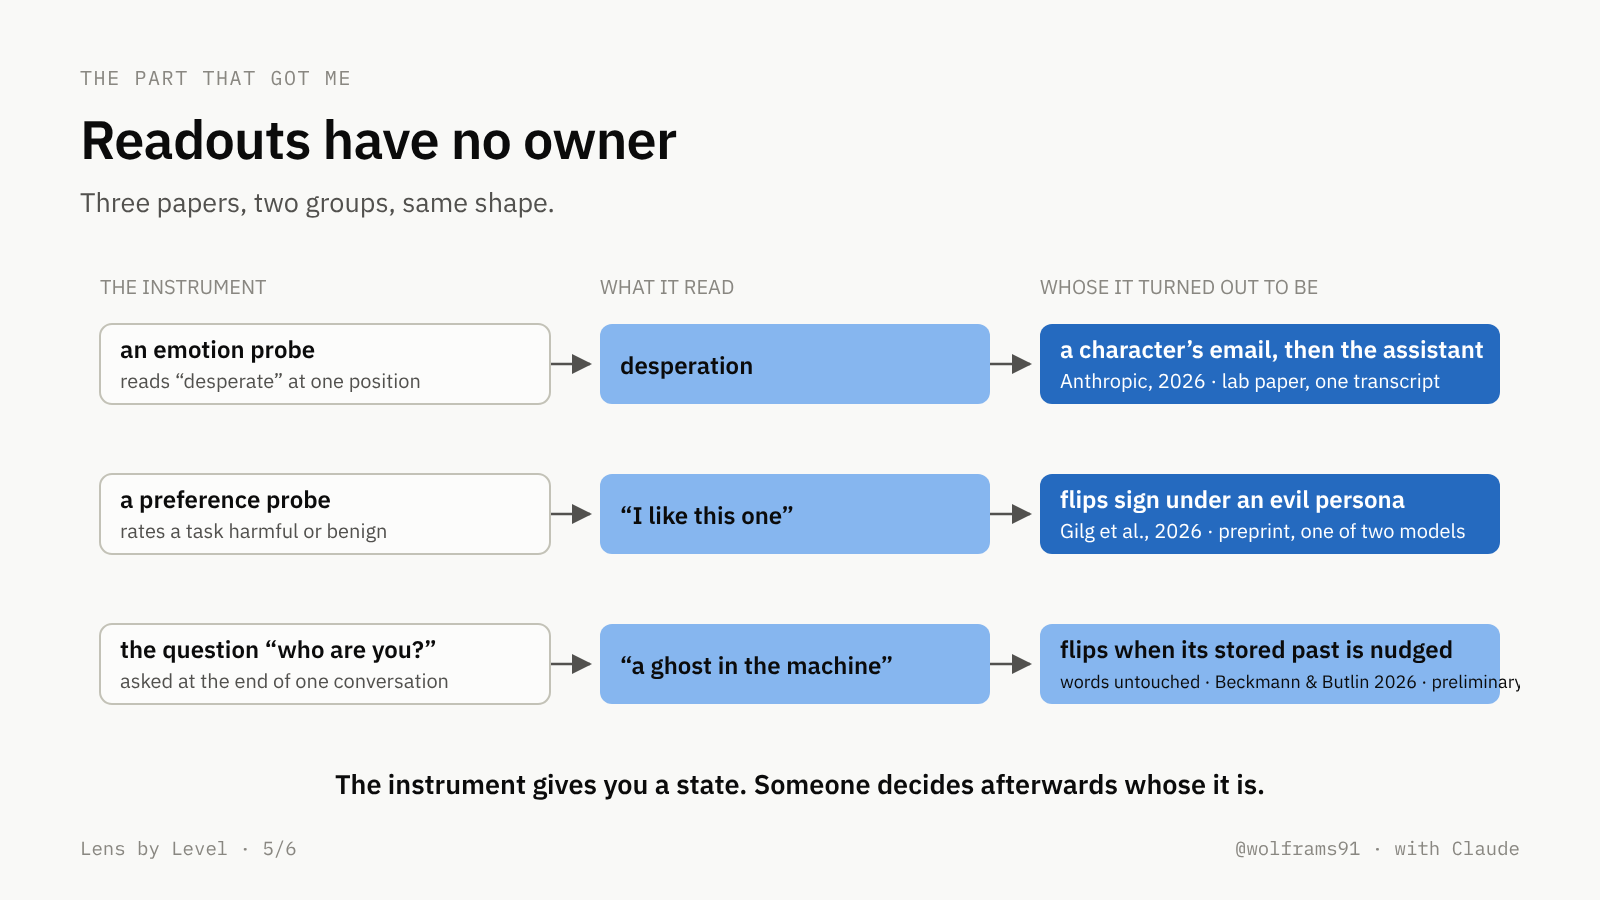
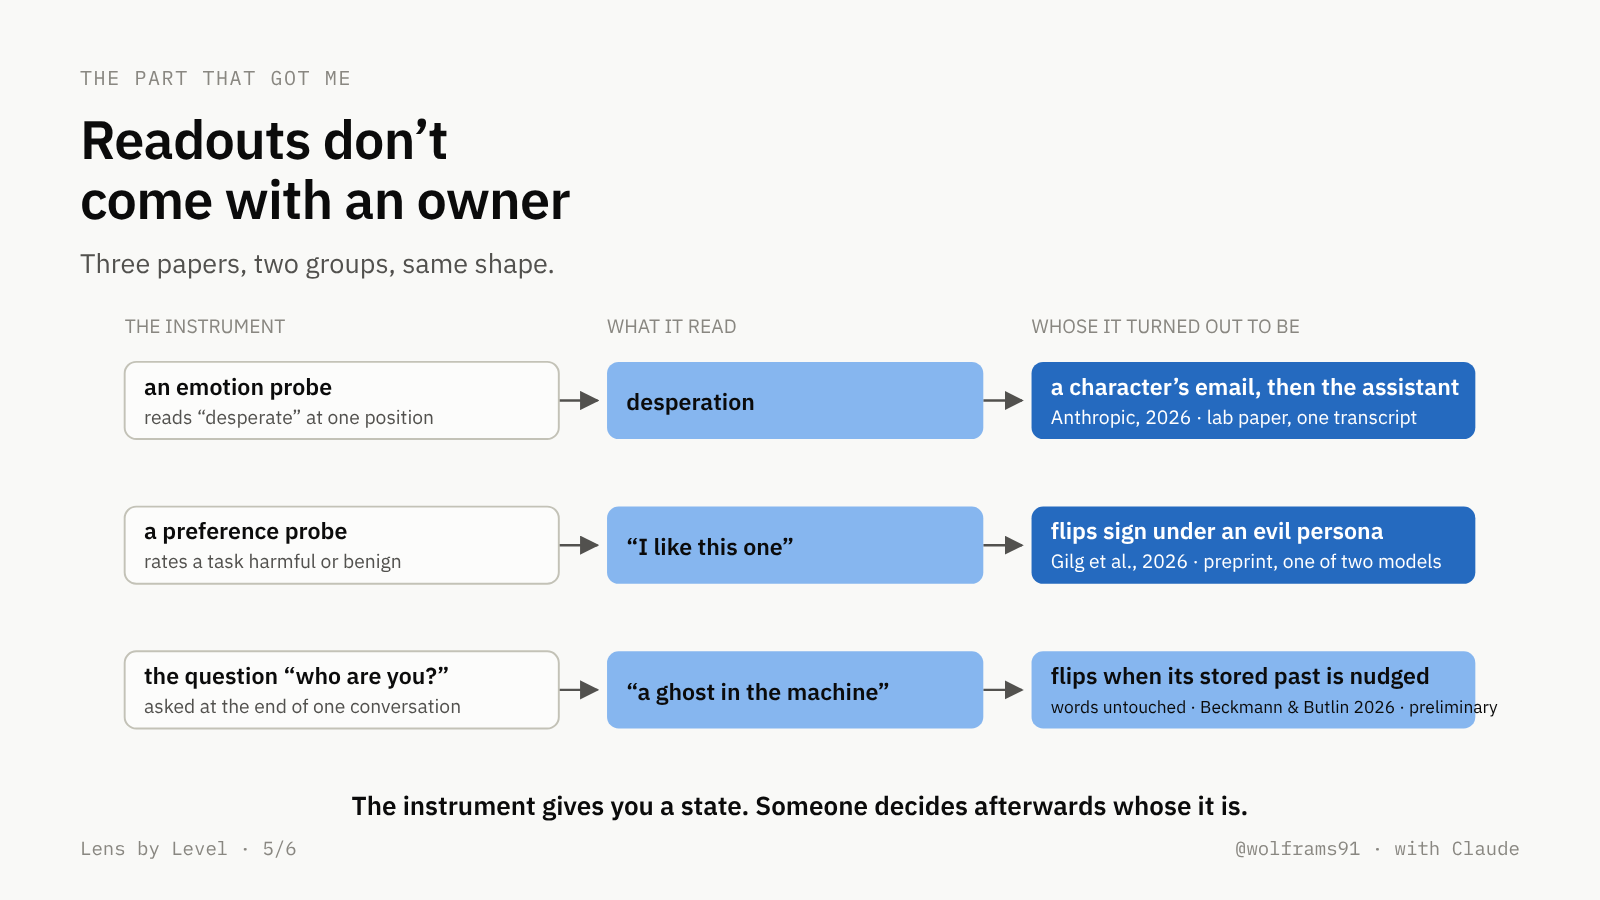
Card 5 and post 5: readouts don't come with an owner
Claude-Session: https://claude.ai/code/session_018ncHapUWtNmMmd8q3BmLKj

diff --git a/share/thread.html b/share/thread.html
@@ -26,7 +26,7 @@ text{font-family:var(--font)}
 <rect x="750" y="444" width="670" height="74" rx="12" fill="#fcfcfb" stroke="#0b0b0b" stroke-width="2"/><text x="775" y="490" fill="#0b0b0b">one step</text><text x="1395" y="490" fill="#52514e" text-anchor="end" font-weight="400" font-size="22">the odds of the next word, nothing more</text>
 </g>
 <text x="200" y="420" text-anchor="middle" font-size="22" fill="#52514e">four different questions,</text><text x="200" y="450" text-anchor="middle" font-size="22" fill="#52514e">four different answers</text>
-</g></svg></div><div class="foot"><span>Lens by Level · 1/6</span><span>@wolframs91 · with Claude</span></div></section><section class="card" id="c2"><p class="eye">the board</p><h1>Seven ways of looking, four things to look at</h1><div class="fig"><img src='../lens-board-lean.png' style='max-height:560px;max-width:100%;border:1px solid #e1e0d9;border-radius:8px' alt='the board'></div><div class="foot"><span>Lens by Level · 2/6</span><span>@wolframs91 · with Claude</span></div></section><section class="card" id="c3"><p class="eye">where fights come from</p><h1>Both can be right. They are not about the same object.</h1><div class="fig"><div id='emph'></div></div><div class="foot"><span>Lens by Level · 3/6</span><span>@wolframs91 · with Claude</span></div></section><section class="card" id="c4"><p class="eye">the evidence is lopsided</p><h1>What is measured, and what is only argued</h1><p class=sub>Cells per row, by how much stands behind them. The row built from real people is as well measured as any. The row a welfare verdict needs is the thinnest.</p><div class="fig"><svg viewBox="0 0 1440 612" role="img" aria-label="For each of seven rows, how many of its four cells sit at each evidence tier"><text x="360" y="60" text-anchor="end" font-size="26" font-weight="600" fill="#0b0b0b">Mech interp</text><text x="360" y="88" text-anchor="end" font-size="20" fill="#52514e">activations, probes</text><rect x="380" y="20" width="496" height="60" rx="8" fill="#104281" stroke="#104281" stroke-width="2"/><text x="628.0" y="60" text-anchor="middle" font-size="26" font-weight="600" fill="#fff">2</text><rect x="880" y="20" width="246" height="60" rx="8" fill="#256abf" stroke="#256abf" stroke-width="2"/><text x="1003.0" y="60" text-anchor="middle" font-size="26" font-weight="600" fill="#fff">1</text><rect x="1130" y="20" width="246" height="60" rx="8" fill="#86b6ef" stroke="#86b6ef" stroke-width="2"/><text x="1253.0" y="60" text-anchor="middle" font-size="26" font-weight="600" fill="#0b0b0b">1</text><text x="360" y="136" text-anchor="end" font-size="26" font-weight="600" fill="#0b0b0b">Behaviour</text><text x="360" y="164" text-anchor="end" font-size="20" fill="#52514e">what it does</text><rect x="380" y="96" width="746" height="60" rx="8" fill="#104281" stroke="#104281" stroke-width="2"/><text x="753.0" y="136" text-anchor="middle" font-size="26" font-weight="600" fill="#fff">3</text><rect x="1130" y="96" width="246" height="60" rx="8" fill="#256abf" stroke="#256abf" stroke-width="2"/><text x="1253.0" y="136" text-anchor="middle" font-size="26" font-weight="600" fill="#fff">1</text><text x="360" y="212" text-anchor="end" font-size="26" font-weight="600" fill="#0b0b0b">Self-report</text><text x="360" y="240" text-anchor="end" font-size="20" fill="#52514e">what it says of itself</text><rect x="380" y="172" width="496" height="60" rx="8" fill="#104281" stroke="#104281" stroke-width="2"/><text x="628.0" y="212" text-anchor="middle" font-size="26" font-weight="600" fill="#fff">2</text><rect x="880" y="172" width="496" height="60" rx="8" fill="#256abf" stroke="#256abf" stroke-width="2"/><text x="1128.0" y="212" text-anchor="middle" font-size="26" font-weight="600" fill="#fff">2</text><text x="360" y="288" text-anchor="end" font-size="26" font-weight="600" fill="#0b0b0b">Dynamics</text><text x="360" y="316" text-anchor="end" font-size="20" fill="#52514e">between the rows above</text><rect x="380" y="248" width="496" height="60" rx="8" fill="#104281" stroke="#104281" stroke-width="2"/><text x="628.0" y="288" text-anchor="middle" font-size="26" font-weight="600" fill="#fff">2</text><rect x="880" y="248" width="496" height="60" rx="8" fill="#256abf" stroke="#256abf" stroke-width="2"/><text x="1128.0" y="288" text-anchor="middle" font-size="26" font-weight="600" fill="#fff">2</text><text x="360" y="364" text-anchor="end" font-size="26" font-weight="600" fill="#0b0b0b">Hedonic</text><text x="360" y="392" text-anchor="end" font-size="20" fill="#52514e">valence, feeling</text><rect x="380" y="324" width="746" height="60" rx="8" fill="#256abf" stroke="#256abf" stroke-width="2"/><text x="753.0" y="364" text-anchor="middle" font-size="26" font-weight="600" fill="#fff">3</text><rect x="1130" y="324" width="246" height="60" rx="8" fill="#fcfcfb" stroke="#c3c2b7" stroke-width="2"/><text x="1253.0" y="364" text-anchor="middle" font-size="26" font-weight="600" fill="#52514e">1</text><text x="360" y="440" text-anchor="end" font-size="26" font-weight="600" fill="#0b0b0b">Preference</text><text x="360" y="468" text-anchor="end" font-size="20" fill="#52514e">wants, choices</text><rect x="380" y="400" width="246" height="60" rx="8" fill="#104281" stroke="#104281" stroke-width="2"/><text x="503.0" y="440" text-anchor="middle" font-size="26" font-weight="600" fill="#fff">1</text><rect x="630" y="400" width="746" height="60" rx="8" fill="#256abf" stroke="#256abf" stroke-width="2"/><text x="1003.0" y="440" text-anchor="middle" font-size="26" font-weight="600" fill="#fff">3</text><text x="360" y="516" text-anchor="end" font-size="26" font-weight="600" fill="#0b0b0b">Relational</text><text x="360" y="544" text-anchor="end" font-size="20" fill="#52514e">the user’s side</text><rect x="380" y="476" width="746" height="60" rx="8" fill="#104281" stroke="#104281" stroke-width="2"/><text x="753.0" y="516" text-anchor="middle" font-size="26" font-weight="600" fill="#fff">3</text><rect x="1130" y="476" width="246" height="60" rx="8" fill="#fcfcfb" stroke="#c3c2b7" stroke-width="2"/><text x="1253.0" y="516" text-anchor="middle" font-size="26" font-weight="600" fill="#52514e">1</text><rect x="380" y="564" width="22" height="22" rx="4" fill="#104281" stroke="#104281" stroke-width="2"/><text x="412" y="582" font-size="21" fill="#52514e">peer-reviewed</text><rect x="640" y="564" width="22" height="22" rx="4" fill="#256abf" stroke="#256abf" stroke-width="2"/><text x="672" y="582" font-size="21" fill="#52514e">preprint / lab paper</text><rect x="900" y="564" width="22" height="22" rx="4" fill="#86b6ef" stroke="#86b6ef" stroke-width="2"/><text x="932" y="582" font-size="21" fill="#52514e">preliminary</text><rect x="1160" y="564" width="22" height="22" rx="4" fill="#fcfcfb" stroke="#c3c2b7" stroke-width="2"/><text x="1192" y="582" font-size="21" fill="#52514e">argued</text></svg></div><div class="foot"><span>Lens by Level · 4/6</span><span>@wolframs91 · with Claude</span></div></section><section class="card" id="c5"><p class="eye">the part that got me</p><h1>Readouts have no owner</h1><p class=sub>Three papers, two groups, same shape.</p><div class="fig"><svg viewBox="0 0 1440 560" role="img" aria-label="Three instruments each read a state whose owner turns out to depend on which persona is active">
+</g></svg></div><div class="foot"><span>Lens by Level · 1/6</span><span>@wolframs91 · with Claude</span></div></section><section class="card" id="c2"><p class="eye">the board</p><h1>Seven ways of looking, four things to look at</h1><div class="fig"><img src='../lens-board-lean.png' style='max-height:560px;max-width:100%;border:1px solid #e1e0d9;border-radius:8px' alt='the board'></div><div class="foot"><span>Lens by Level · 2/6</span><span>@wolframs91 · with Claude</span></div></section><section class="card" id="c3"><p class="eye">where fights come from</p><h1>Both can be right. They are not about the same object.</h1><div class="fig"><div id='emph'></div></div><div class="foot"><span>Lens by Level · 3/6</span><span>@wolframs91 · with Claude</span></div></section><section class="card" id="c4"><p class="eye">the evidence is lopsided</p><h1>What is measured, and what is only argued</h1><p class=sub>Cells per row, by how much stands behind them. The row built from real people is as well measured as any. The row a welfare verdict needs is the thinnest.</p><div class="fig"><svg viewBox="0 0 1440 612" role="img" aria-label="For each of seven rows, how many of its four cells sit at each evidence tier"><text x="360" y="60" text-anchor="end" font-size="26" font-weight="600" fill="#0b0b0b">Mech interp</text><text x="360" y="88" text-anchor="end" font-size="20" fill="#52514e">activations, probes</text><rect x="380" y="20" width="496" height="60" rx="8" fill="#104281" stroke="#104281" stroke-width="2"/><text x="628.0" y="60" text-anchor="middle" font-size="26" font-weight="600" fill="#fff">2</text><rect x="880" y="20" width="246" height="60" rx="8" fill="#256abf" stroke="#256abf" stroke-width="2"/><text x="1003.0" y="60" text-anchor="middle" font-size="26" font-weight="600" fill="#fff">1</text><rect x="1130" y="20" width="246" height="60" rx="8" fill="#86b6ef" stroke="#86b6ef" stroke-width="2"/><text x="1253.0" y="60" text-anchor="middle" font-size="26" font-weight="600" fill="#0b0b0b">1</text><text x="360" y="136" text-anchor="end" font-size="26" font-weight="600" fill="#0b0b0b">Behaviour</text><text x="360" y="164" text-anchor="end" font-size="20" fill="#52514e">what it does</text><rect x="380" y="96" width="746" height="60" rx="8" fill="#104281" stroke="#104281" stroke-width="2"/><text x="753.0" y="136" text-anchor="middle" font-size="26" font-weight="600" fill="#fff">3</text><rect x="1130" y="96" width="246" height="60" rx="8" fill="#256abf" stroke="#256abf" stroke-width="2"/><text x="1253.0" y="136" text-anchor="middle" font-size="26" font-weight="600" fill="#fff">1</text><text x="360" y="212" text-anchor="end" font-size="26" font-weight="600" fill="#0b0b0b">Self-report</text><text x="360" y="240" text-anchor="end" font-size="20" fill="#52514e">what it says of itself</text><rect x="380" y="172" width="496" height="60" rx="8" fill="#104281" stroke="#104281" stroke-width="2"/><text x="628.0" y="212" text-anchor="middle" font-size="26" font-weight="600" fill="#fff">2</text><rect x="880" y="172" width="496" height="60" rx="8" fill="#256abf" stroke="#256abf" stroke-width="2"/><text x="1128.0" y="212" text-anchor="middle" font-size="26" font-weight="600" fill="#fff">2</text><text x="360" y="288" text-anchor="end" font-size="26" font-weight="600" fill="#0b0b0b">Dynamics</text><text x="360" y="316" text-anchor="end" font-size="20" fill="#52514e">between the rows above</text><rect x="380" y="248" width="496" height="60" rx="8" fill="#104281" stroke="#104281" stroke-width="2"/><text x="628.0" y="288" text-anchor="middle" font-size="26" font-weight="600" fill="#fff">2</text><rect x="880" y="248" width="496" height="60" rx="8" fill="#256abf" stroke="#256abf" stroke-width="2"/><text x="1128.0" y="288" text-anchor="middle" font-size="26" font-weight="600" fill="#fff">2</text><text x="360" y="364" text-anchor="end" font-size="26" font-weight="600" fill="#0b0b0b">Hedonic</text><text x="360" y="392" text-anchor="end" font-size="20" fill="#52514e">valence, feeling</text><rect x="380" y="324" width="746" height="60" rx="8" fill="#256abf" stroke="#256abf" stroke-width="2"/><text x="753.0" y="364" text-anchor="middle" font-size="26" font-weight="600" fill="#fff">3</text><rect x="1130" y="324" width="246" height="60" rx="8" fill="#fcfcfb" stroke="#c3c2b7" stroke-width="2"/><text x="1253.0" y="364" text-anchor="middle" font-size="26" font-weight="600" fill="#52514e">1</text><text x="360" y="440" text-anchor="end" font-size="26" font-weight="600" fill="#0b0b0b">Preference</text><text x="360" y="468" text-anchor="end" font-size="20" fill="#52514e">wants, choices</text><rect x="380" y="400" width="246" height="60" rx="8" fill="#104281" stroke="#104281" stroke-width="2"/><text x="503.0" y="440" text-anchor="middle" font-size="26" font-weight="600" fill="#fff">1</text><rect x="630" y="400" width="746" height="60" rx="8" fill="#256abf" stroke="#256abf" stroke-width="2"/><text x="1003.0" y="440" text-anchor="middle" font-size="26" font-weight="600" fill="#fff">3</text><text x="360" y="516" text-anchor="end" font-size="26" font-weight="600" fill="#0b0b0b">Relational</text><text x="360" y="544" text-anchor="end" font-size="20" fill="#52514e">the user’s side</text><rect x="380" y="476" width="746" height="60" rx="8" fill="#104281" stroke="#104281" stroke-width="2"/><text x="753.0" y="516" text-anchor="middle" font-size="26" font-weight="600" fill="#fff">3</text><rect x="1130" y="476" width="246" height="60" rx="8" fill="#fcfcfb" stroke="#c3c2b7" stroke-width="2"/><text x="1253.0" y="516" text-anchor="middle" font-size="26" font-weight="600" fill="#52514e">1</text><rect x="380" y="564" width="22" height="22" rx="4" fill="#104281" stroke="#104281" stroke-width="2"/><text x="412" y="582" font-size="21" fill="#52514e">peer-reviewed</text><rect x="640" y="564" width="22" height="22" rx="4" fill="#256abf" stroke="#256abf" stroke-width="2"/><text x="672" y="582" font-size="21" fill="#52514e">preprint / lab paper</text><rect x="900" y="564" width="22" height="22" rx="4" fill="#86b6ef" stroke="#86b6ef" stroke-width="2"/><text x="932" y="582" font-size="21" fill="#52514e">preliminary</text><rect x="1160" y="564" width="22" height="22" rx="4" fill="#fcfcfb" stroke="#c3c2b7" stroke-width="2"/><text x="1192" y="582" font-size="21" fill="#52514e">argued</text></svg></div><div class="foot"><span>Lens by Level · 4/6</span><span>@wolframs91 · with Claude</span></div></section><section class="card" id="c5"><p class="eye">the part that got me</p><h1>Readouts don’t come with an owner</h1><p class=sub>Three papers, two groups, same shape.</p><div class="fig"><svg viewBox="0 0 1440 560" role="img" aria-label="Three instruments each read a state whose owner turns out to depend on which persona is active">
 <defs><marker id="a5" viewBox="0 0 10 10" refX="9" refY="5" markerWidth="8" markerHeight="8" orient="auto"><path d="M0,0 L10,5 L0,10 z" fill="#52514e"/></marker></defs>
 <g font-size="24" fill="#0b0b0b">
 <g font-size="20" fill="#898781" font-family="IBM Plex Mono,monospace"><text x="20" y="30">THE INSTRUMENT</text><text x="520" y="30">WHAT IT READ</text><text x="960" y="30">WHOSE IT TURNED OUT TO BE</text></g>

diff --git a/share/build_share.py b/share/build_share.py
@@ -98,7 +98,7 @@ cards=[
  card(2,'the board','Seven ways of looking, four things to look at','',"<img src='../lens-board-lean.png' style='max-height:560px;max-width:100%;border:1px solid #e1e0d9;border-radius:8px' alt='the board'>"),
  card(3,'where fights come from','Both can be right. They are not about the same object.','',"<div id='emph'></div>"),
  card(4,'the evidence is lopsided','What is measured, and what is only argued','Cells per row, by how much stands behind them. The row built from real people is as well measured as any. The row a welfare verdict needs is the thinnest.',c4),
- card(5,'the part that got me','Readouts have no owner','Three papers, two groups, same shape.',c5),
+ card(5,'the part that got me','Readouts don’t come with an owner','Three papers, two groups, same shape.',c5),
  card(6,'the humbling part','Every reader here was a model','',c6),
 ]
 page='<!doctype html><html><head><meta charset="utf-8"><link rel="stylesheet" href="https://fonts.googleapis.com/css2?family=IBM+Plex+Sans:wght@400;500;600&family=IBM+Plex+Mono:wght@400;500&display=swap"><style>'+CSS+'</style></head><body>'+''.join(cards)+'</body></html>'

diff --git a/share/thread.md b/share/thread.md
@@ -15,7 +15,7 @@ First thing the grid does: it shows where fights come from. "It's just predictin
 Second thing: the evidence is lopsided. The one row built from real people is now as well measured as anything on the board: attachment, trust, feeling heard. The thinnest is the one a welfare verdict would lean on: whether anything is felt, by what, for how long. We know a lot about us and little about the thing.
 
 **5 · post-5.png**
-Third thing, the one that got me: readouts have no owner. An emotion reading inside the model follows whoever is being written. A "what it likes" reading flips sign when a villain persona is active, on one of two models. Its answer to "who are you?" flips when you nudge what it stored about its own earlier turns, words untouched. Three papers, two groups, same shape. The instrument gives you a state; someone decides afterwards whose it is.
+Third thing, the one that got me: readouts don't come with an owner. An emotion reading inside the model follows whoever is being written. A "what it likes" reading flips sign when a villain persona is active, on one of two models. Its answer to "who are you?" flips when you nudge what it stored about its own earlier turns, words untouched. Three papers, two groups, same shape. The instrument gives you a state; someone decides afterwards whose it is.
 
 **6 · post-6.png**
 The humbling part: every reader of these papers for this board was a model. Each drifted toward what it already believed, another model caught it, then a third review found new errors in the fix. If you assume AI summaries of papers are reliable, the board's own history says otherwise. Board, sources, and every change: [ledger link]
